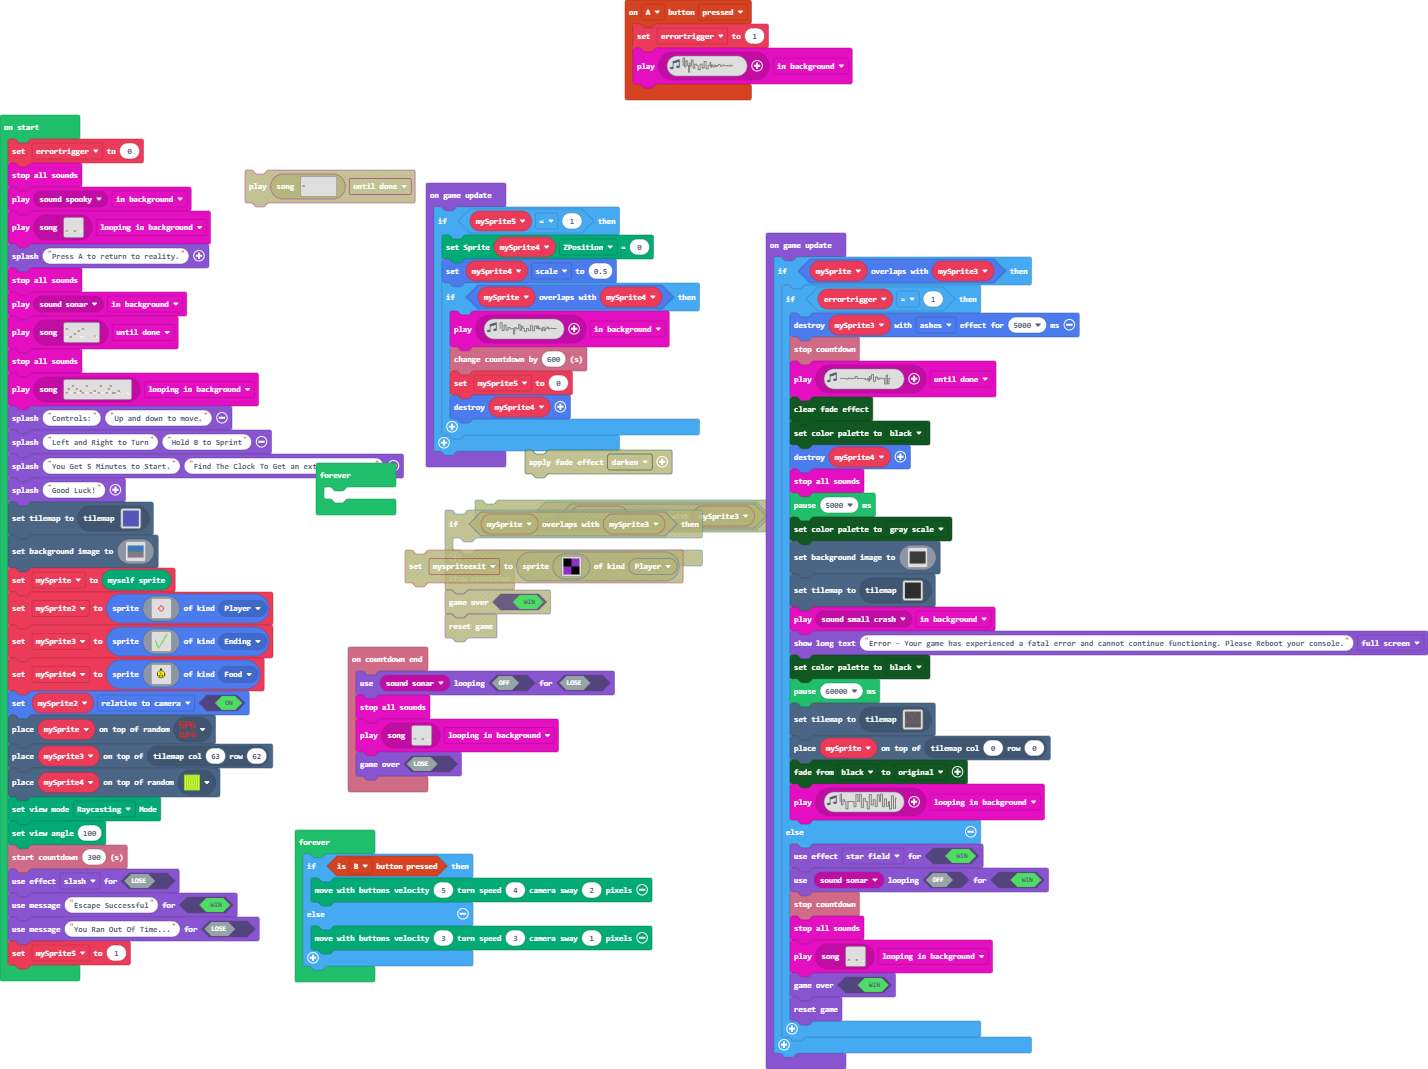
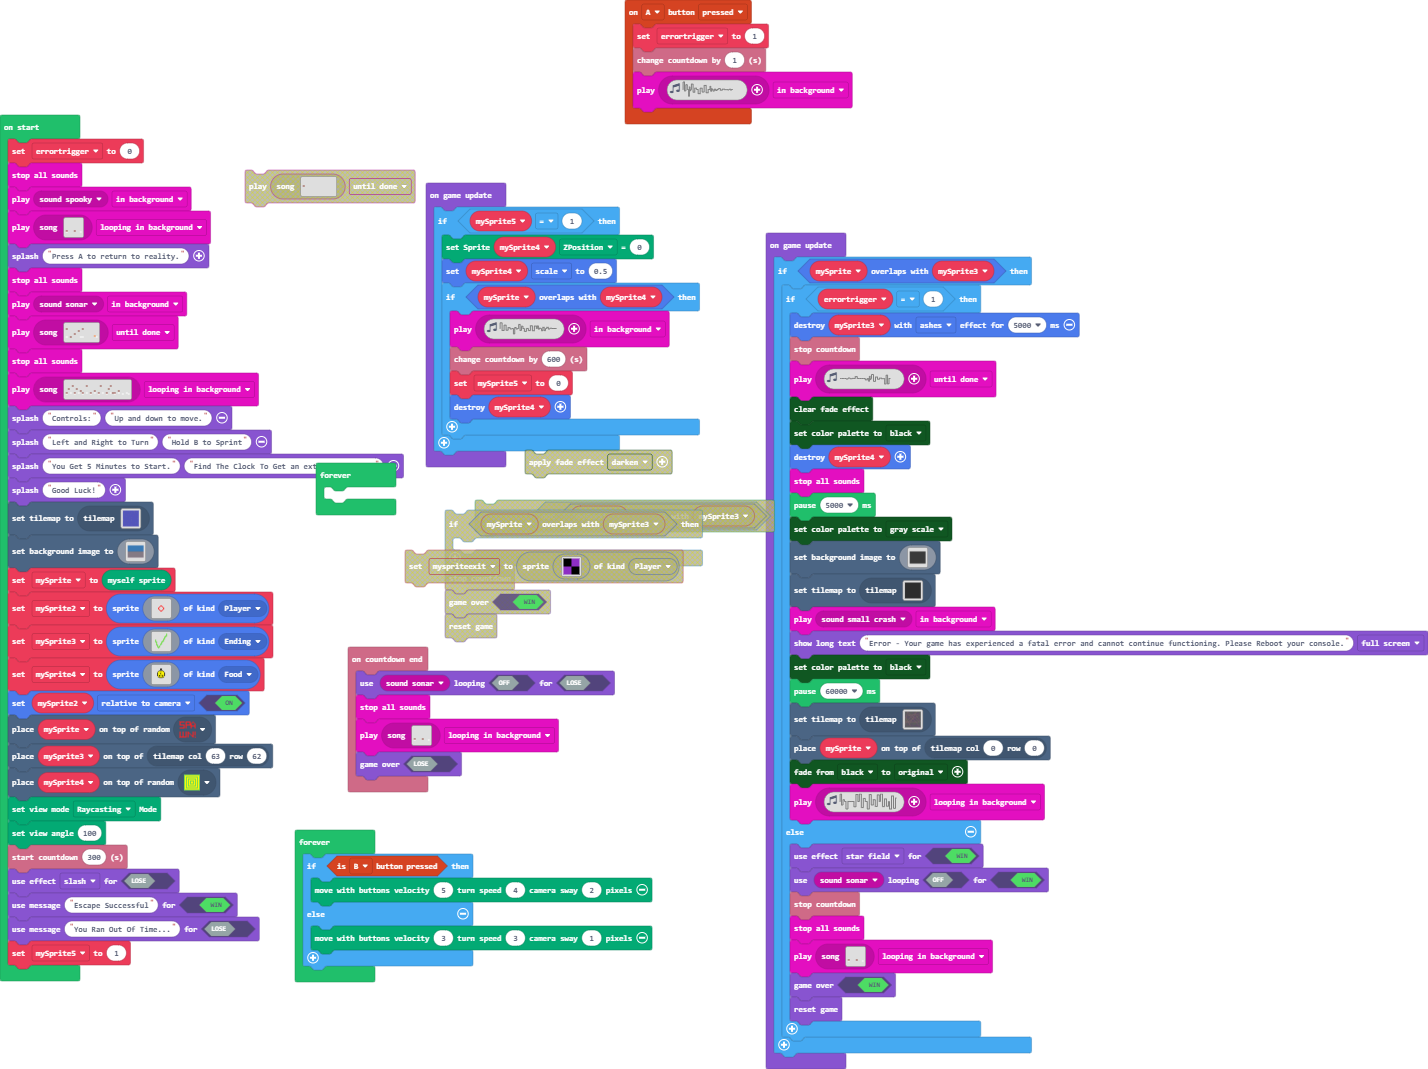
a button cheat added (adds one second to the timer every click)

Changed region(s): [[0.4314, 0.0309, 0.6162, 0.1235], [0.5238, 0.463, 0.5546, 0.4939]]

diff --git a/main.ts b/main.ts
@@ -3,6 +3,7 @@ namespace SpriteKind {
 }
 controller.A.onEvent(ControllerButtonEvent.Pressed, function () {
     errortrigger = 1
+    info.changeCountdownBy(1)
     music.play(music.createSoundEffect(WaveShape.Noise, 3900, 3500, 255, 0, 10, SoundExpressionEffect.None, InterpolationCurve.Linear), music.PlaybackMode.InBackground)
 })
 info.onCountdownEnd(function () {
